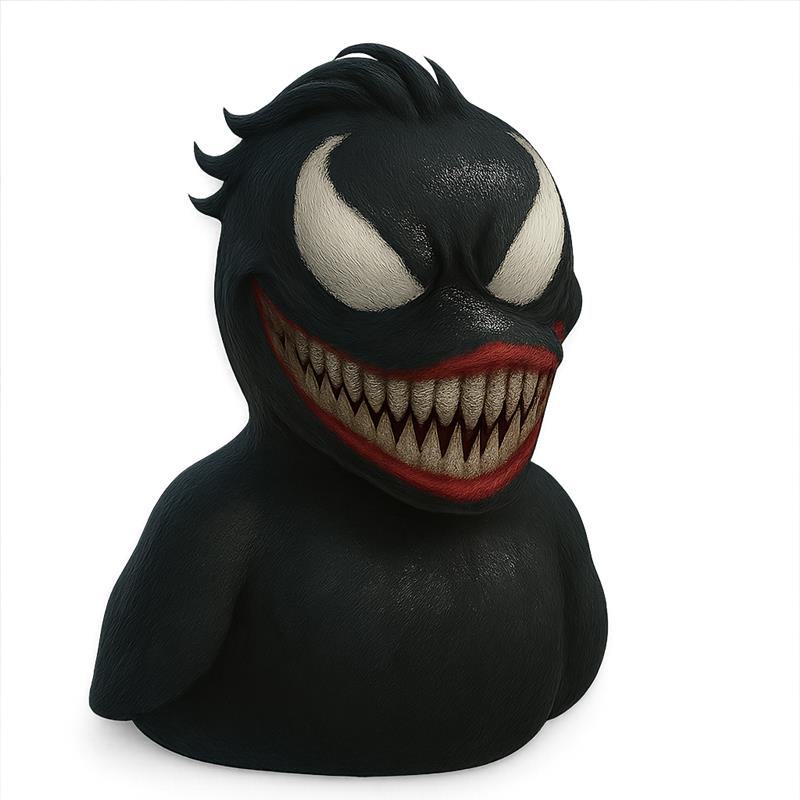
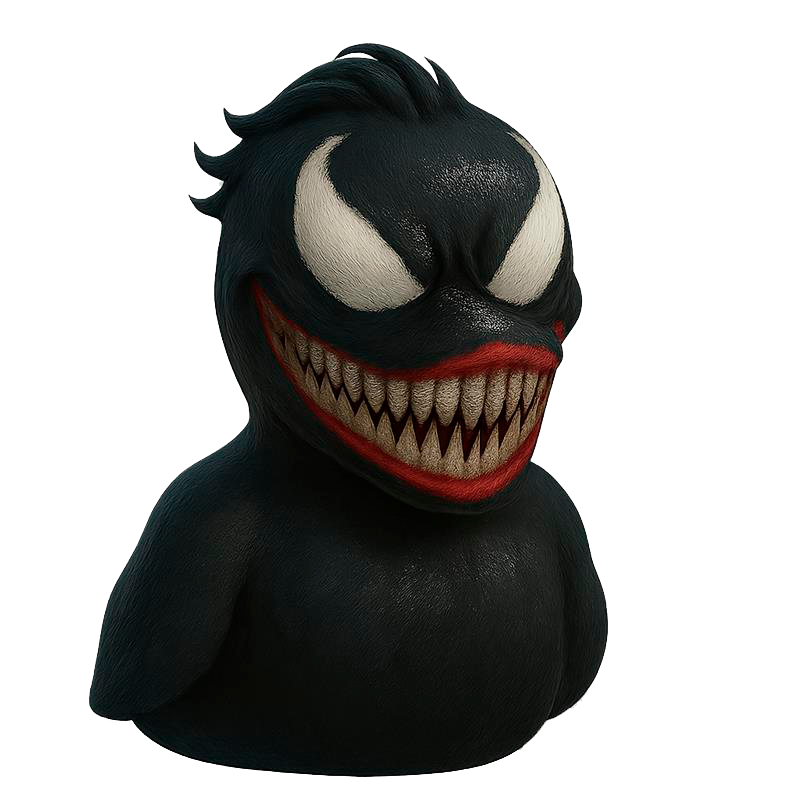
Icone de conquistas

diff --git a/CSS/perfil.css b/CSS/perfil.css
@@ -54,7 +54,6 @@ body { color: var(--cor-texto); background-color: var(--cor-fundo); display: fle
 .emblema-conquista { position: relative; aspect-ratio: 1 / 1; background: linear-gradient(145deg, var(--cor-secundaria), #0c2233); border-radius: 12px; border: 1px solid var(--cor-borda); padding: 10px; box-shadow: 0 4px 15px rgba(0,0,0,0.3), inset 0 2px 4px rgba(0,0,0,0.4); transition: all 0.3s ease; animation: fadeIn 0.5s ease-out; }
 .emblema-conquista img { width: 100%; height: 100%; object-fit: contain; transition: all 0.3s ease; }
 .emblema-conquista.desbloqueada:hover { transform: translateY(-5px) scale(1.05); border-color: var(--cor-primaria); box-shadow: 0 10px 30px rgba(46, 242, 170, 0.25); }
-.emblema-conquista.desbloqueada img { filter: drop-shadow(0 0 8px rgba(46, 242, 170, 0.5)); }
 .tooltip-conquista { position: absolute; bottom: 105%; left: 50%; transform: translateX(-50%); width: 250px; background-color: var(--cor-card); border: 1px solid var(--cor-primaria); border-radius: 8px; padding: 1rem; box-shadow: 0 8px 20px rgba(0,0,0,0.5); text-align: left; z-index: 10; opacity: 0; visibility: hidden; pointer-events: none; transition: opacity 0.3s ease, bottom 0.3s ease; }
 .tooltip-conquista::after { content: ''; position: absolute; top: 100%; left: 50%; transform: translateX(-50%); border-width: 8px; border-style: solid; border-color: var(--cor-primaria) transparent transparent transparent; }
 .emblema-conquista:hover .tooltip-conquista { opacity: 1; visibility: visible; bottom: 115%; }

diff --git a/perfil.php b/perfil.php
@@ -10,9 +10,9 @@
 
   // Array de avatares pré-definidos
   $avatares_permitidos = [
-      'https://i.imgur.com/W8yZNOX.png', 'https://i.imgur.com/K2a2t0X.png',
-      'https://i.imgur.com/t3BvFhT.png', 'https://i.imgur.com/gJk4s5d.png',
-      'https://i.imgur.com/A4RzO9z.png', 'https://i.imgur.com/y1g2f6b.png',
+      'imagens/foto_perfil/buddhapato.png', 'imagens/foto_perfil/venompato.png',
+      'imagens/foto_perfil/counterpato.png', 'imagens/foto_perfil/patofeliz.png',
+      'imagens/foto_perfil/royalepato.png', 'https://i.imgur.com/y1g2f6b.png',
   ];
 
   // 2. PROCESSAMENTO DE FORMULÁRIOS (POST)
